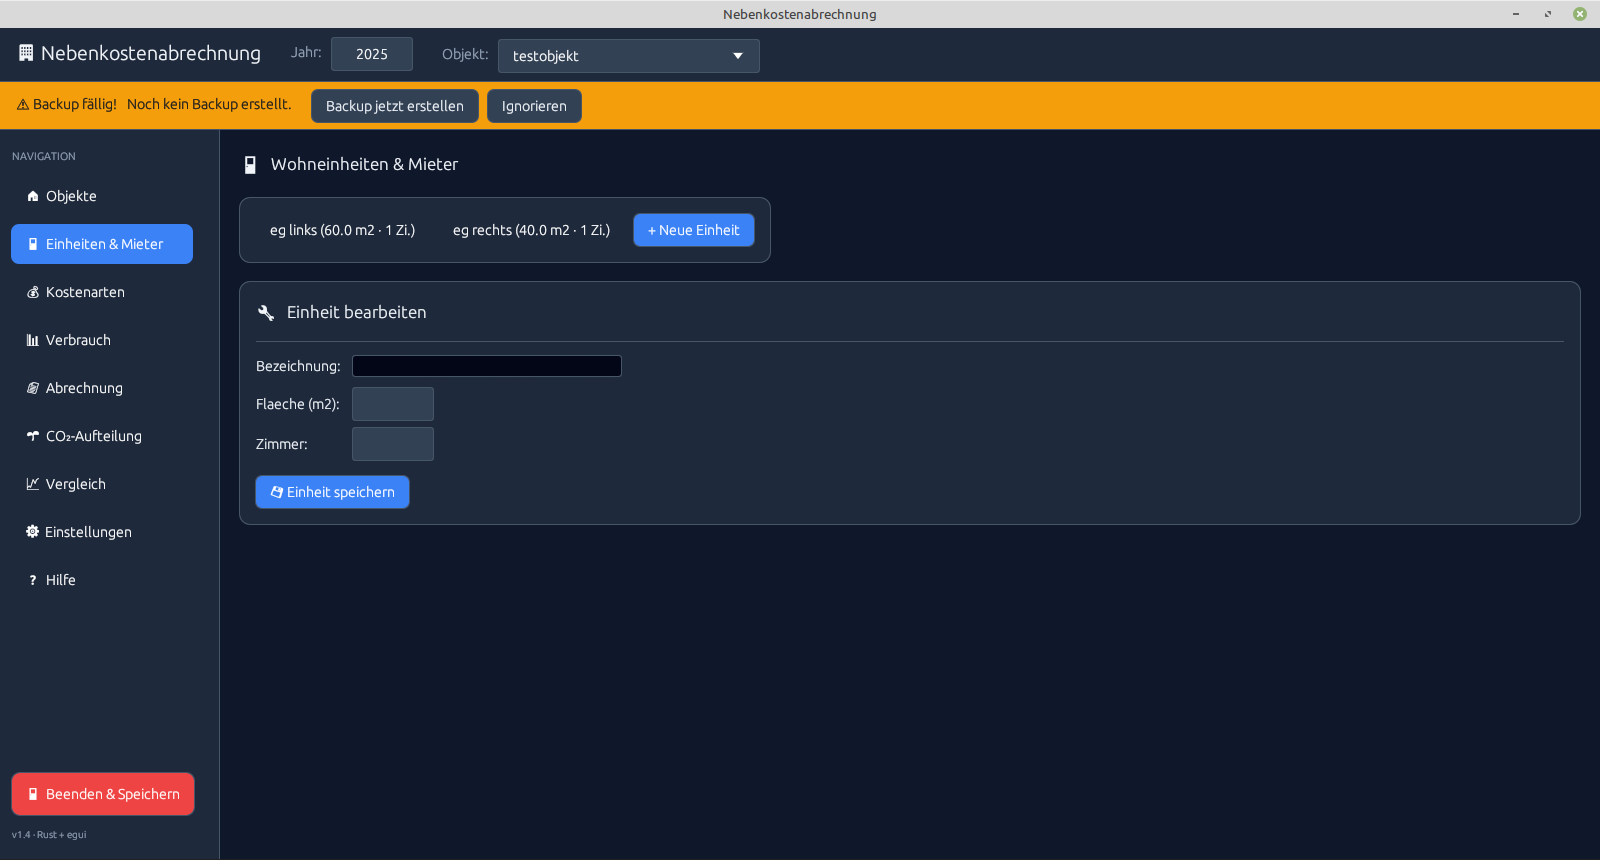
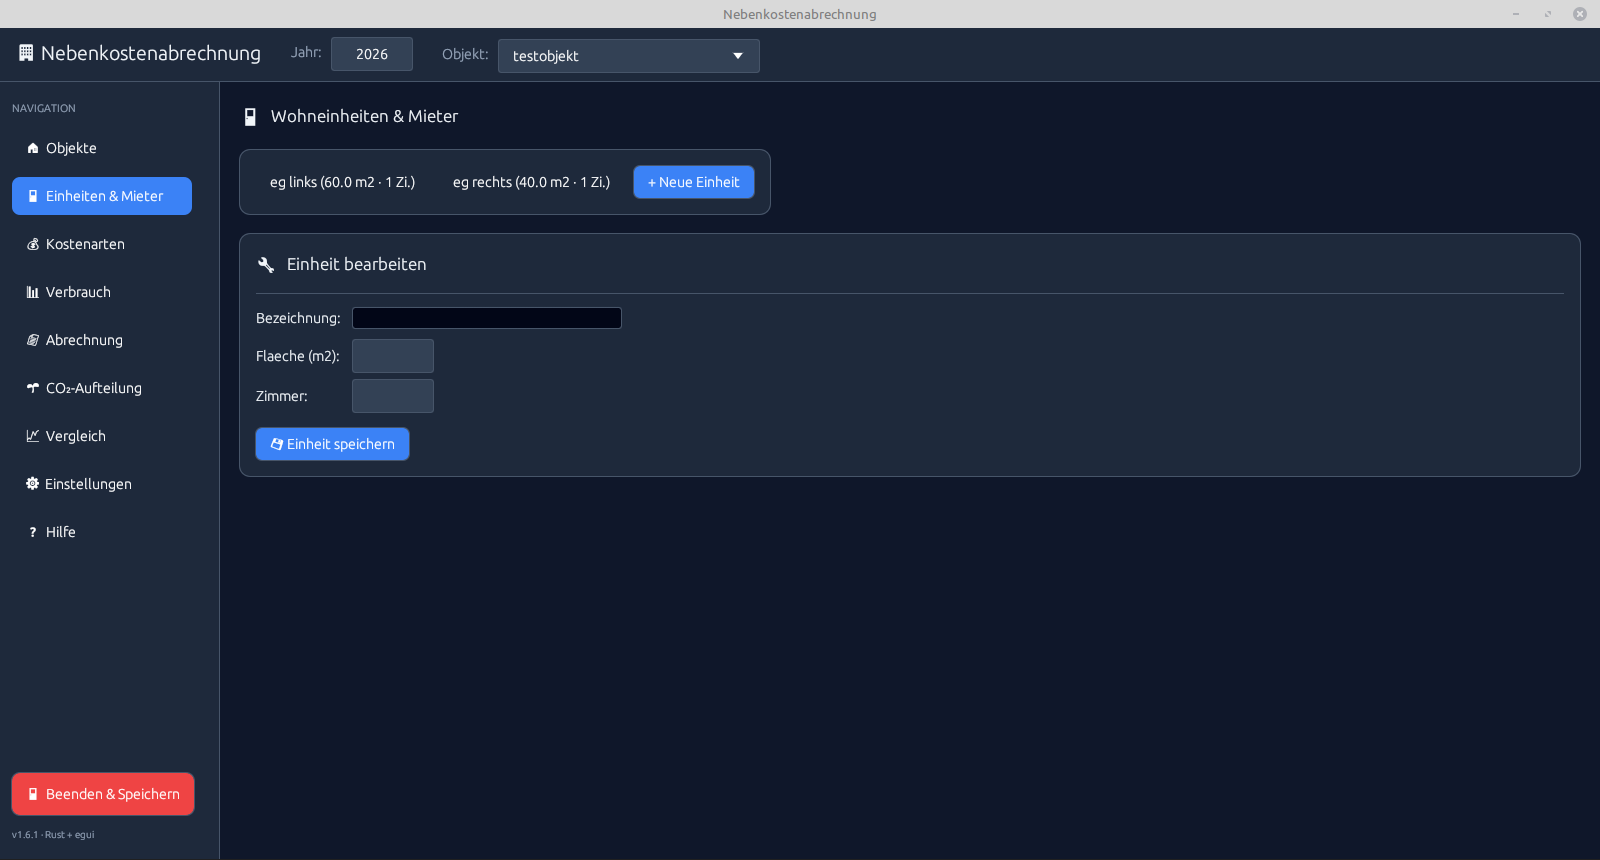
Version 1.6.1: neue Screenshots, Download-Links und Versionsangaben

diff --git a/index.html b/index.html
@@ -167,7 +167,7 @@
         <div class="body">
           <h3>Nebenkostenabrechnung <span class="tag new">aktuell</span></h3>
           <div class="meta">
-            <span>Version 1.6.0</span><span>·</span><span>native Rust-App</span><span>·</span><span>neu, schlank</span>
+            <span>Version 1.6.1</span><span>·</span><span>native Rust-App</span><span>·</span><span>neu, schlank</span>
           </div>
           <ul>
             <li>CO₂-Aufteilung nach CO2KostAufG inkl. 19 % MwSt.</li>
@@ -179,11 +179,11 @@
           <div class="dl">
             <div class="dlrow">
               <span><span class="os">Windows</span> <span class="sz">· portable EXE · 11,3 MB</span></span>
-              <a href="https://github.com/K-Eckstein/nebenkosten-abrechnung-in-rust/releases/download/1.6.0/Nebenkostenabrechnung-Portable.exe">Herunterladen</a>
+              <a href="https://github.com/K-Eckstein/nebenkosten-abrechnung-in-rust/releases/download/1.6.1/Nebenkostenabrechnung-Portable.exe">Herunterladen</a>
             </div>
             <div class="dlrow">
               <span><span class="os">Linux</span> <span class="sz">· AppImage · 8,6 MB</span></span>
-              <a href="https://github.com/K-Eckstein/nebenkosten-abrechnung-in-rust/releases/download/1.6.0/Nebenkostenabrechnung-1.6.0.AppImage">Herunterladen</a>
+              <a href="https://github.com/K-Eckstein/nebenkosten-abrechnung-in-rust/releases/download/1.6.1/Nebenkostenabrechnung-1.6.1.AppImage">Herunterladen</a>
             </div>
             <a class="btn ghost" href="https://github.com/K-Eckstein/nebenkosten-abrechnung-in-rust">Zum Repository &amp; Anleitung</a>
           </div>
@@ -232,7 +232,7 @@
         </thead>
         <tbody>
           <tr><td>Technik</td><td>nativ in Rust</td><td>HTML/TypeScript, Electron</td></tr>
-          <tr><td>Aktuelle Version</td><td>1.6.0</td><td>1.3</td></tr>
+          <tr><td>Aktuelle Version</td><td>1.6.1</td><td>1.3</td></tr>
           <tr><td>Download</td><td>8,6 MB / 11,3 MB</td><td>146 MB / 117 MB</td></tr>
           <tr><td>Windows &amp; Linux</td><td>portable EXE, AppImage</td><td>portable EXE, AppImage</td></tr>
           <tr><td>CO₂ nach CO2KostAufG</td><td>✔ inkl. 19 % MwSt.</td><td>✔ Stufenmodell</td></tr>
@@ -245,20 +245,20 @@
       </table>
     </div>
     <p class="sub" style="margin-top:14px; font-size:13.6px;">
-      Stand: Version 1.6.0 (Rust) und 1.3 (Web-/Desktop). Beide Programme sind eigenständig – deine Daten wandern nicht automatisch von einer Version in die andere.
+      Stand: Version 1.6.1 (Rust) und 1.3 (Web-/Desktop). Beide Programme sind eigenständig – deine Daten wandern nicht automatisch von einer Version in die andere.
     </p>
   </section>
 
   <section id="screenshots">
     <h2>Screenshots aus der Rust-App</h2>
     <p class="sub">Objekte, Einheiten, Kostenverteilung, Verbrauch, Abrechnung und Jahresvergleich. Klick auf ein Bild zum Vergrößern.<br>
-      <span style="font-size:13.4px">Aufnahmen aus dem Download-Paket (Programmstand v1.4); Version 1.6.0 bietet zusätzlich den Zählerwechsel im Bereich „Verbrauch“.</span></p>
+      <span style="font-size:13.4px">Alle Aufnahmen mit der aktuellen Version 1.6.1 – inklusive Zählerwechsel und einer vollständig berechneten Beispielabrechnung.</span></p>
     <div class="gallery">
       <figure><a href="assets/shot-1.png" target="_blank" rel="noopener"><img src="assets/shot-1.png" alt="Objekte und Vermieter verwalten" loading="lazy"></a><figcaption>1 · Objekte &amp; Vermieter</figcaption></figure>
       <figure><a href="assets/shot-2.png" target="_blank" rel="noopener"><img src="assets/shot-2.png" alt="Wohneinheiten und Mieter" loading="lazy"></a><figcaption>2 · Einheiten &amp; Mieter</figcaption></figure>
       <figure><a href="assets/shot-3.png" target="_blank" rel="noopener"><img src="assets/shot-3.png" alt="Kostenarten mit Verteilerschlüssel pro Zeile" loading="lazy"></a><figcaption>3 · Kostenarten &amp; Verteilerschlüssel</figcaption></figure>
       <figure><a href="assets/shot-4.png" target="_blank" rel="noopener"><img src="assets/shot-4.png" alt="Verbrauchsablesung für Heizung und Warmwasser" loading="lazy"></a><figcaption>4 · Verbrauch &amp; Zählerstände</figcaption></figure>
-      <figure><a href="assets/shot-5.png" target="_blank" rel="noopener"><img src="assets/shot-5.png" alt="Abrechnung mit Schnellabrechnung und PDF-Erzeugung" loading="lazy"></a><figcaption>5 · Abrechnung &amp; PDF-Export</figcaption></figure>
+      <figure><a href="assets/shot-5.png" target="_blank" rel="noopener"><img src="assets/shot-5.png" alt="Fertige Abrechnung mit Kostenanteil, Vorauszahlung und Saldo" loading="lazy"></a><figcaption>5 · Abrechnung mit Salden</figcaption></figure>
       <figure><a href="assets/shot-6.png" target="_blank" rel="noopener"><img src="assets/shot-6.png" alt="CO₂-Kostenaufteilung nach CO2KostAufG" loading="lazy"></a><figcaption>6 · CO₂-Kostenaufteilung</figcaption></figure>
       <figure><a href="assets/shot-7.png" target="_blank" rel="noopener"><img src="assets/shot-7.png" alt="Jahresvergleich mit Diagrammen" loading="lazy"></a><figcaption>7 · Jahresvergleich</figcaption></figure>
     </div>
@@ -301,7 +301,7 @@
 
 <footer class="site">
   <div class="wrap">
-    <span>Nebenkostenabrechnung · Freeware für private Vermieter · Stand Version 1.6.0 / 1.3</span>
+    <span>Nebenkostenabrechnung · Freeware für private Vermieter · Stand Version 1.6.1 / 1.3</span>
     <span>
       <a href="https://github.com/K-Eckstein/nebenkosten-abrechnung-in-rust">Rust-App</a> ·
       <a href="https://github.com/K-Eckstein/Nebenkostenabrechnung-">Web-/Desktop-Version</a> ·
